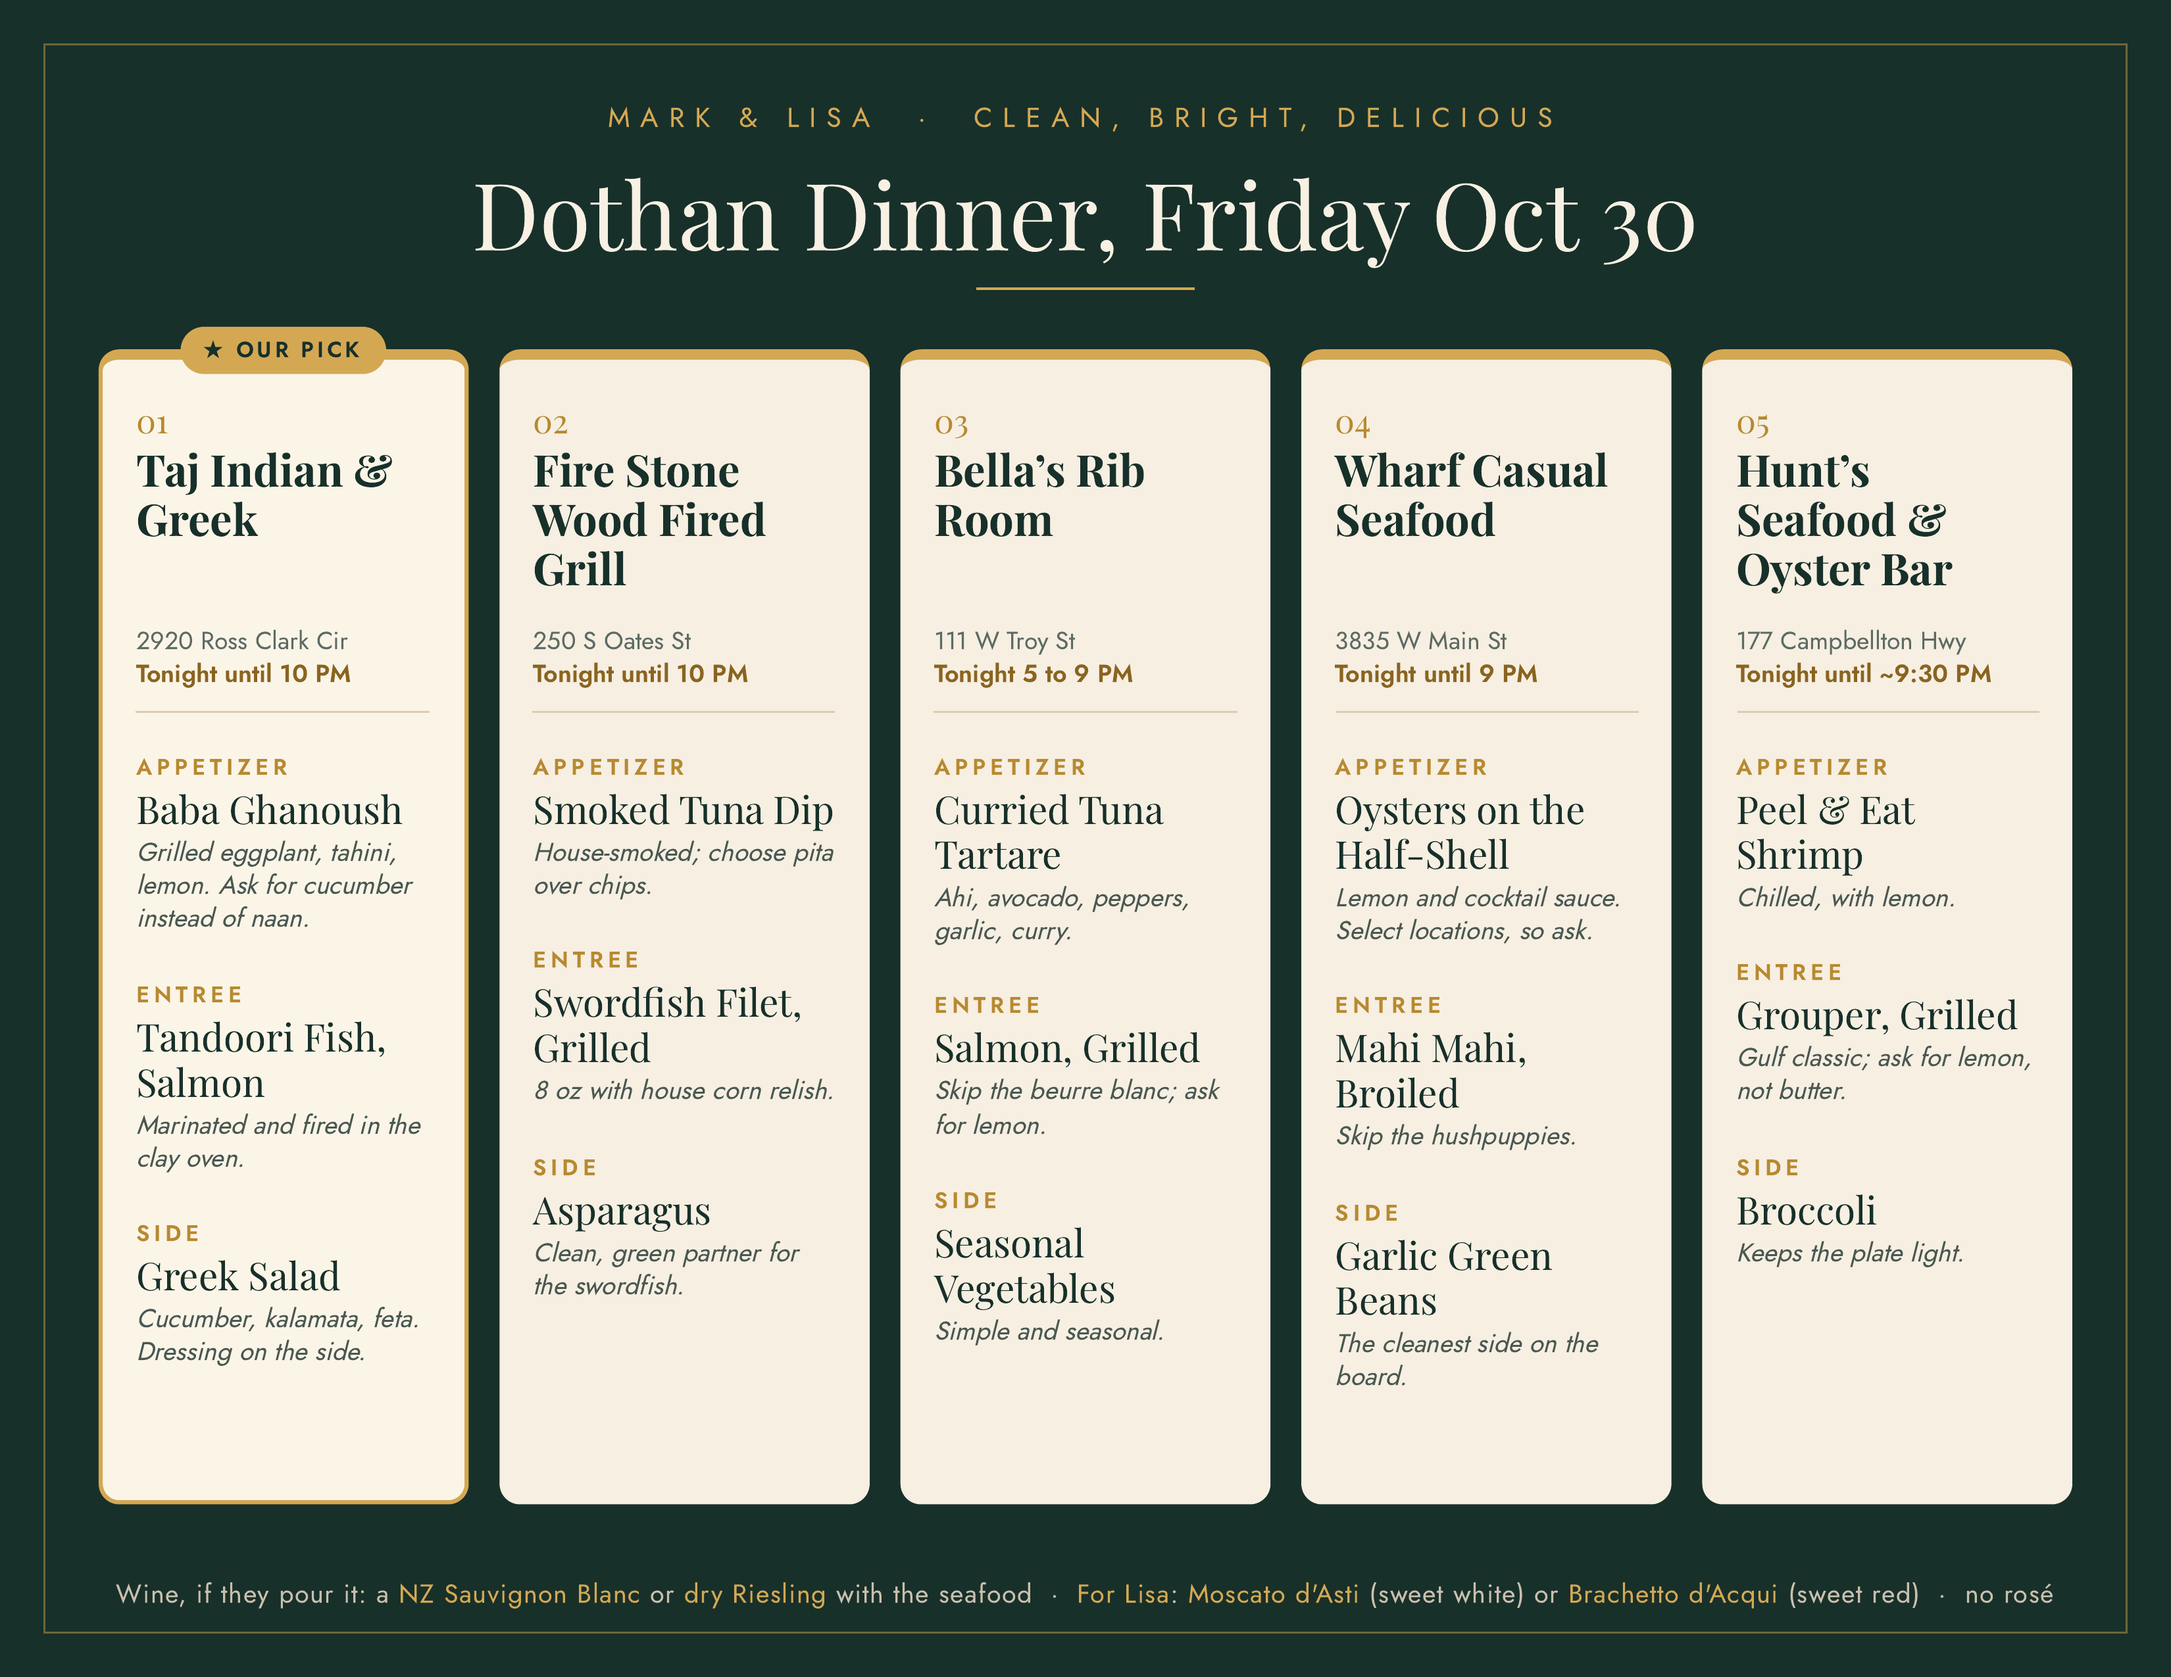
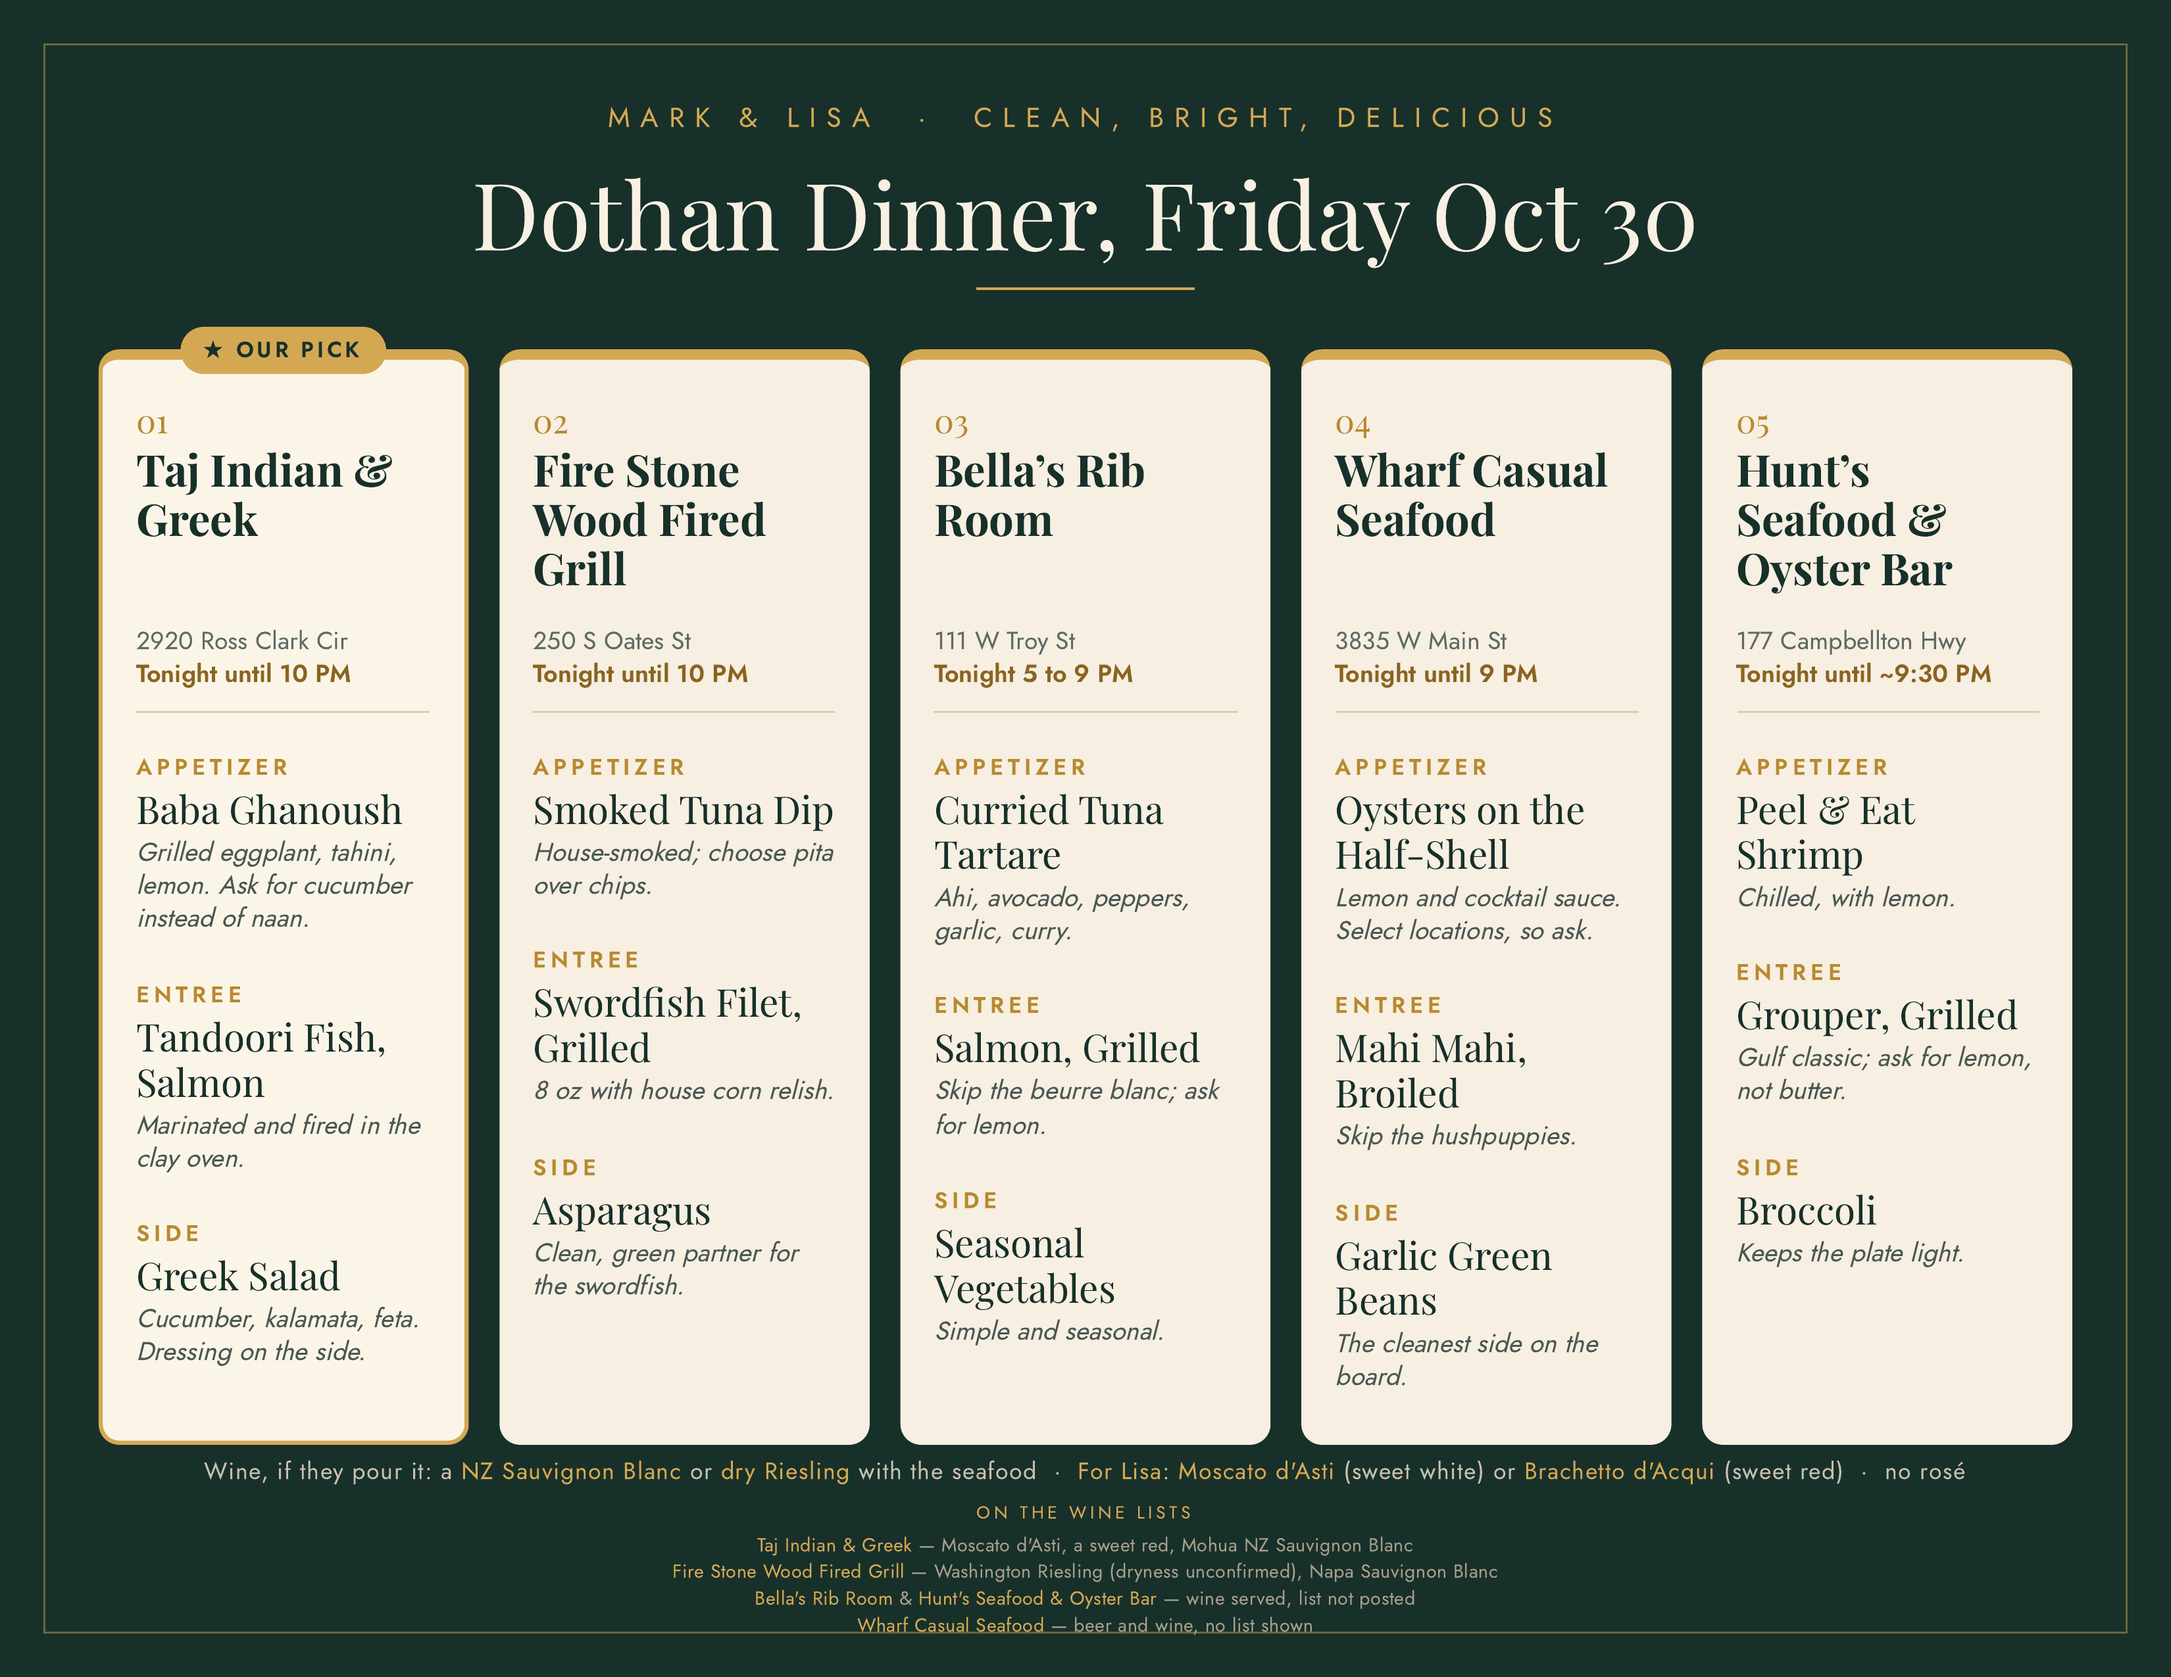
Dinner: wine lists footer + ntfy SSE live refresh
Menu PNG with For Lisa sweets and On the wine lists.
dinner-menu.html: EventSource(ntfy) push reload; 5min + meta-refresh fallback.
Notify via scripts/notify-dinner-reload.sh after Pages (no workflow scope).

diff --git a/dinner-menu.html b/dinner-menu.html
@@ -4,30 +4,100 @@
   <meta charset="utf-8" />
   <meta name="viewport" content="width=device-width, initial-scale=1, viewport-fit=cover" />
   <meta name="color-scheme" content="dark" />
+  <meta http-equiv="refresh" content="300" />
   <title>Dinner menu · Dothan</title>
   <style>
     html, body {
-      margin: 0;
-      padding: 0;
-      width: 100%;
-      height: 100%;
-      background: #000;
-      overflow: hidden;
+      margin: 0; padding: 0; width: 100%; height: 100%;
+      background: #000; overflow: hidden;
     }
-    img {
-      display: block;
-      width: 100vw;
-      height: 100vh;
-      object-fit: contain;
-      object-position: center;
+    img#menu {
+      display: block; width: 100vw; height: 100vh;
+      object-fit: contain; object-position: center;
       background: #000;
-      -webkit-user-select: none;
-      user-select: none;
-      pointer-events: none;
+      -webkit-user-select: none; user-select: none; pointer-events: none;
+      opacity: 1; transition: opacity 280ms ease;
     }
+    img#menu.fade { opacity: 0; }
   </style>
 </head>
 <body>
-  <img src="./menu-1030.png?v=lisa-wines" alt="Dothan dinner menu — Friday Oct 30" width="3300" height="2550" />
+  <img id="menu" src="./menu-1030.png?v=wine-lists" alt="Dothan dinner menu — Friday Oct 30" width="3300" height="2550" />
+  <script>
+(function () {
+  var img = document.getElementById('menu');
+  var MENU = './menu-1030.png';
+  var VERSION = './version.json';
+  var NTFY = 'https://ntfy.sh/sw-dinner-9078675918a9d356afae42e2731a4858/sse';
+  var FALLBACK_MS = 5 * 60 * 1000;
+  var lastV = null;
+  var busy = false;
+
+  function bust(token) {
+    return MENU + '?v=' + encodeURIComponent(token);
+  }
+
+  function swapTo(token) {
+    if (busy) return;
+    busy = true;
+    var next = new Image();
+    next.onload = function () {
+      img.classList.add('fade');
+      setTimeout(function () {
+        img.src = bust(token);
+        img.classList.remove('fade');
+        busy = false;
+      }, 300);
+    };
+    next.onerror = function () { busy = false; };
+    next.src = bust(token);
+  }
+
+  function refreshFromVersion() {
+    return fetch(VERSION + '?_=' + Date.now(), { cache: 'no-store' })
+      .then(function (r) { return r.ok ? r.json() : null; })
+      .then(function (j) {
+        if (!j) { swapTo(String(Date.now())); return; }
+        var v = String(j.v || j.label || j.updated_at || Date.now());
+        if (lastV === null) { lastV = v; return; }
+        if (v !== lastV) { lastV = v; swapTo(v); }
+        else { swapTo(v + '-' + Date.now()); }
+      })
+      .catch(function () { swapTo(String(Date.now())); });
+  }
+
+  function onPush() {
+    refreshFromVersion();
+  }
+
+  function connectNtfy() {
+    var es;
+    try { es = new EventSource(NTFY); } catch (e) { return; }
+    es.onmessage = function (ev) {
+      try {
+        var data = JSON.parse(ev.data);
+        if (data && (data.message === 'reload' || data.message === 'menu' ||
+            (typeof data.message === 'string' && data.message.indexOf('reload') >= 0))) {
+          onPush();
+        }
+      } catch (_) {
+        if (ev.data && String(ev.data).indexOf('reload') >= 0) onPush();
+      }
+    };
+    es.onerror = function () {};
+  }
+
+  fetch(VERSION + '?_=' + Date.now(), { cache: 'no-store' })
+    .then(function (r) { return r.ok ? r.json() : null; })
+    .then(function (j) {
+      if (j) lastV = String(j.v || j.label || j.updated_at || '');
+    })
+    .catch(function () {})
+    .then(function () {
+      connectNtfy();
+      setInterval(function () { refreshFromVersion(); }, FALLBACK_MS);
+    });
+})();
+  </script>
 </body>
 </html>

diff --git a/lisa-projects/dinner-menu.html b/lisa-projects/dinner-menu.html
@@ -4,30 +4,100 @@
   <meta charset="utf-8" />
   <meta name="viewport" content="width=device-width, initial-scale=1, viewport-fit=cover" />
   <meta name="color-scheme" content="dark" />
+  <meta http-equiv="refresh" content="300" />
   <title>Dinner menu · Dothan</title>
   <style>
     html, body {
-      margin: 0;
-      padding: 0;
-      width: 100%;
-      height: 100%;
-      background: #000;
-      overflow: hidden;
+      margin: 0; padding: 0; width: 100%; height: 100%;
+      background: #000; overflow: hidden;
     }
-    img {
-      display: block;
-      width: 100vw;
-      height: 100vh;
-      object-fit: contain;
-      object-position: center;
+    img#menu {
+      display: block; width: 100vw; height: 100vh;
+      object-fit: contain; object-position: center;
       background: #000;
-      -webkit-user-select: none;
-      user-select: none;
-      pointer-events: none;
+      -webkit-user-select: none; user-select: none; pointer-events: none;
+      opacity: 1; transition: opacity 280ms ease;
     }
+    img#menu.fade { opacity: 0; }
   </style>
 </head>
 <body>
-  <img src="./menu-1030.png?v=lisa-wines" alt="Dothan dinner menu — Friday Oct 30" width="3300" height="2550" />
+  <img id="menu" src="./menu-1030.png?v=wine-lists" alt="Dothan dinner menu — Friday Oct 30" width="3300" height="2550" />
+  <script>
+(function () {
+  var img = document.getElementById('menu');
+  var MENU = './menu-1030.png';
+  var VERSION = './version.json';
+  var NTFY = 'https://ntfy.sh/sw-dinner-9078675918a9d356afae42e2731a4858/sse';
+  var FALLBACK_MS = 5 * 60 * 1000;
+  var lastV = null;
+  var busy = false;
+
+  function bust(token) {
+    return MENU + '?v=' + encodeURIComponent(token);
+  }
+
+  function swapTo(token) {
+    if (busy) return;
+    busy = true;
+    var next = new Image();
+    next.onload = function () {
+      img.classList.add('fade');
+      setTimeout(function () {
+        img.src = bust(token);
+        img.classList.remove('fade');
+        busy = false;
+      }, 300);
+    };
+    next.onerror = function () { busy = false; };
+    next.src = bust(token);
+  }
+
+  function refreshFromVersion() {
+    return fetch(VERSION + '?_=' + Date.now(), { cache: 'no-store' })
+      .then(function (r) { return r.ok ? r.json() : null; })
+      .then(function (j) {
+        if (!j) { swapTo(String(Date.now())); return; }
+        var v = String(j.v || j.label || j.updated_at || Date.now());
+        if (lastV === null) { lastV = v; return; }
+        if (v !== lastV) { lastV = v; swapTo(v); }
+        else { swapTo(v + '-' + Date.now()); }
+      })
+      .catch(function () { swapTo(String(Date.now())); });
+  }
+
+  function onPush() {
+    refreshFromVersion();
+  }
+
+  function connectNtfy() {
+    var es;
+    try { es = new EventSource(NTFY); } catch (e) { return; }
+    es.onmessage = function (ev) {
+      try {
+        var data = JSON.parse(ev.data);
+        if (data && (data.message === 'reload' || data.message === 'menu' ||
+            (typeof data.message === 'string' && data.message.indexOf('reload') >= 0))) {
+          onPush();
+        }
+      } catch (_) {
+        if (ev.data && String(ev.data).indexOf('reload') >= 0) onPush();
+      }
+    };
+    es.onerror = function () {};
+  }
+
+  fetch(VERSION + '?_=' + Date.now(), { cache: 'no-store' })
+    .then(function (r) { return r.ok ? r.json() : null; })
+    .then(function (j) {
+      if (j) lastV = String(j.v || j.label || j.updated_at || '');
+    })
+    .catch(function () {})
+    .then(function () {
+      connectNtfy();
+      setInterval(function () { refreshFromVersion(); }, FALLBACK_MS);
+    });
+})();
+  </script>
 </body>
 </html>
